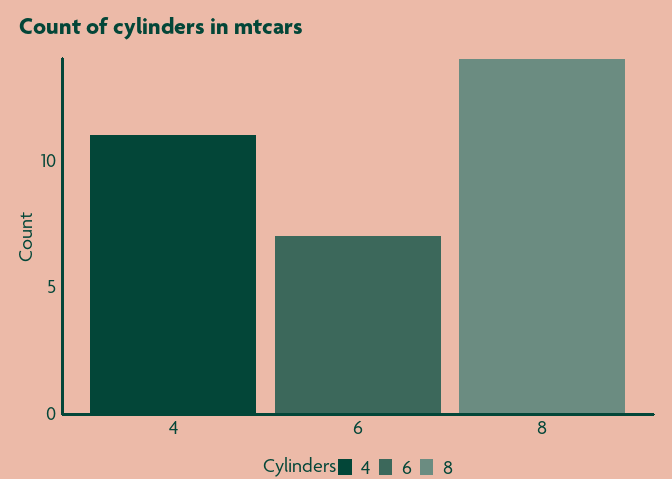
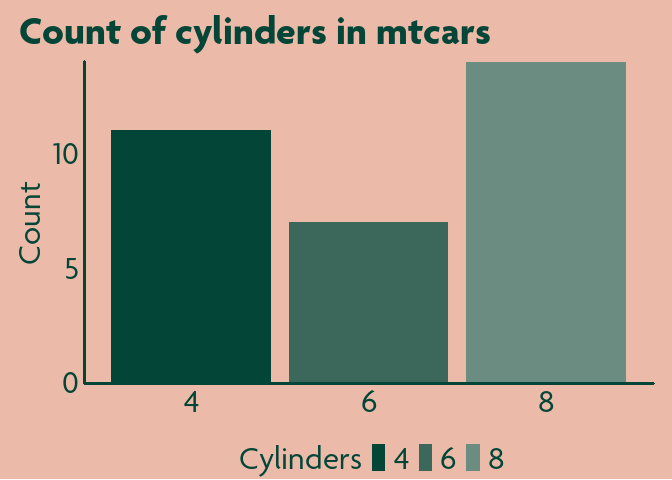
Updated defaults
Updated defaults to reflect lessons from various projects

Changed region(s): [[0.0625, 0.125, 0.9688, 1.0], [0.0312, 0.0312, 0.75, 0.125], [0.0312, 0.375, 0.0625, 0.5625]]

diff --git a/README.md b/README.md
@@ -145,7 +145,7 @@ ggplot(
   scale_fill_manual(guide='none',values=colorspace::lighten(strayr::palette_state_name_2016,.2)) +
   labs(title="States and Territories of Australia")+
   theme_cube_map(base_colour = "green", base_size = 10)
-#> Reading state2021 file found in C:\Users\SAMUEL~1\AppData\Local\Temp\RtmpUb1Tpo
+#> Reading state2021 file found in C:\Users\SAMUEL~1\AppData\Local\Temp\Rtmpuib6xZ
 ```
 
 <img src="man/figures/README-map_green-1.png" width="100%" />
